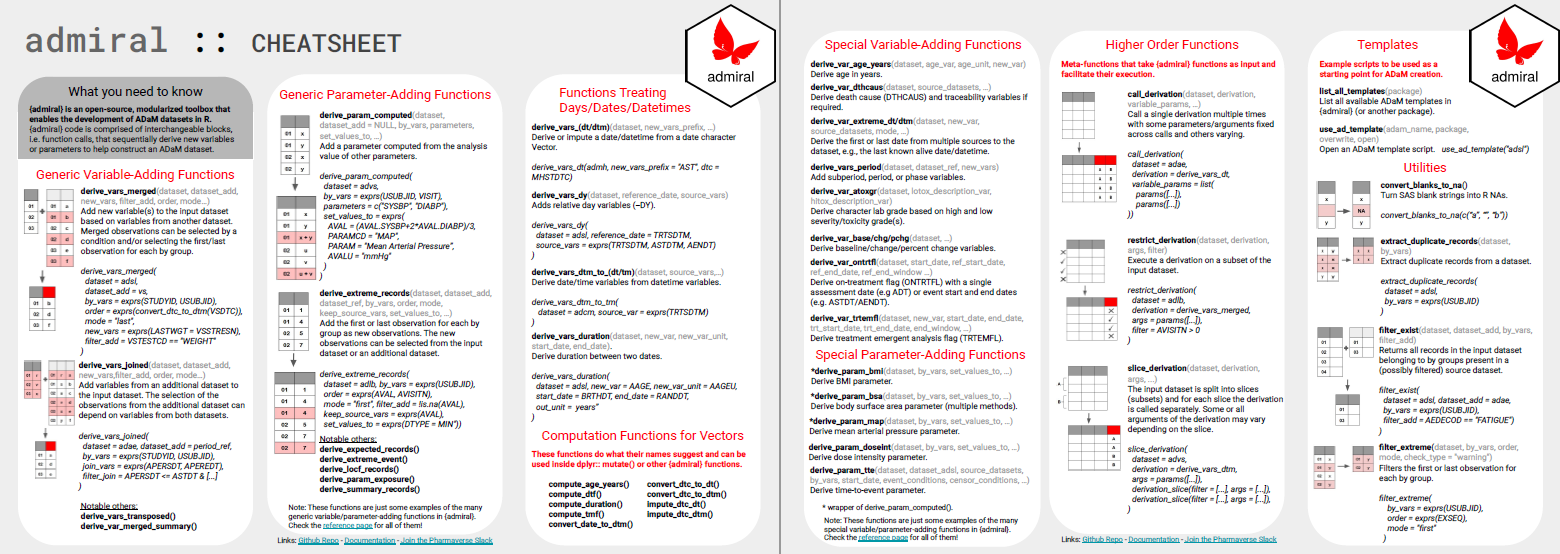
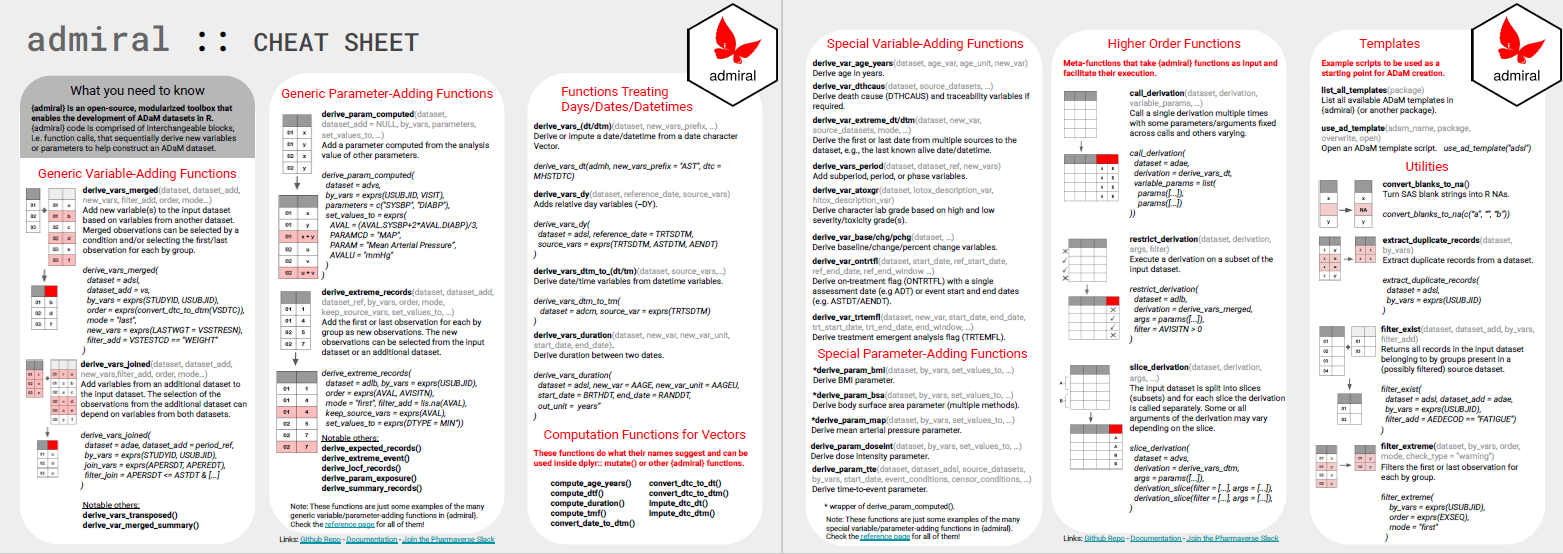
#2130 Cheatsheet -> Cheat Sheet

diff --git a/NEWS.md b/NEWS.md
@@ -144,7 +144,7 @@ the imputation functions, e.g., `derive_vars_dtm()`. (#2222)
 
 - Website now has button/links to Slack channel and GitHub Issues (#2127)
 
-- Cheatsheet now added to website front page (#2130)
+- Cheat Sheet now added to website front page (#2130)
 
 # admiral 0.12.3
 
